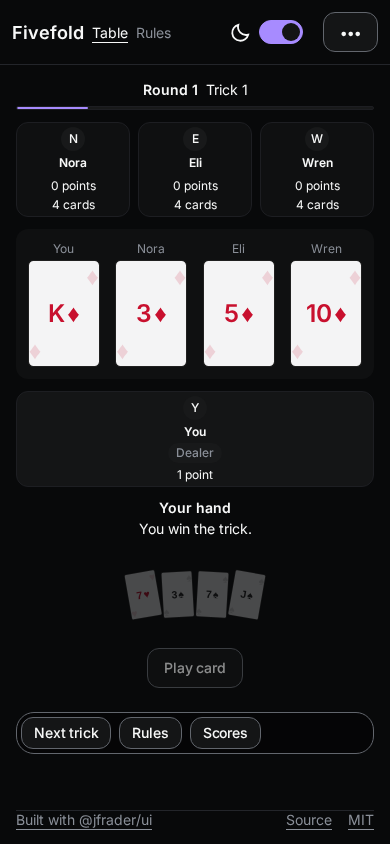
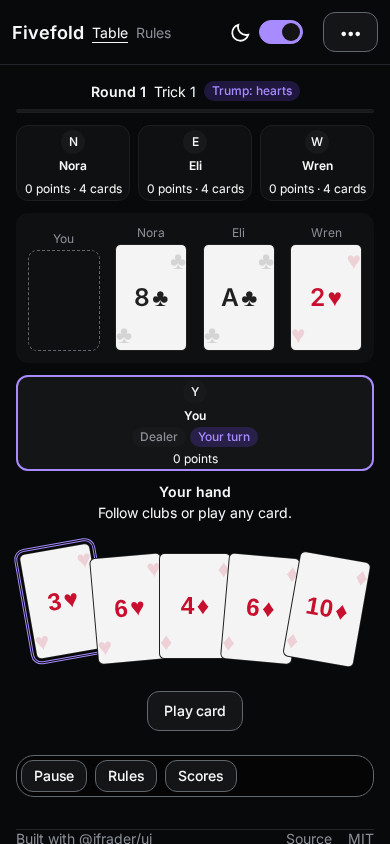
Refresh screenshots and docs for the new table
README component list and FINDINGS now describe the trick tray instead of GameTable.Play with GameCardStack; screenshots show the hand dock and felt.

diff --git a/README.md b/README.md
@@ -59,8 +59,8 @@ props. App-owned styles use `styled` from `@jfrader/ui` with theme callbacks —
 
 ## Built with `@jfrader/ui`
 
-Game: `GameTable` (Seat, Play, Center, Header, Dock, Footer, Floating), `GameSeat`, `GameHand`,
-`GameCard`, `GameCardStack`, `GameActions`, `GameScore`, `GameRounds`, `GameResult`, `GameMarks`,
+Game: `GameTable` (Seat, Center, Floating), `GameSeat`, `GameHand`,
+`GameCard`, `GameActions`, `GameScore`, `GameRounds`, `GameResult`, `GameMarks`,
 `FlipGameCard`, `DeckProvider`.
 
 Overlays and feedback: `Dialog`, `Drawer`, `Toast`, `Alert`, `Tabs`, `Menu`, `Tooltip`, `Popover`,
@@ -87,8 +87,9 @@ integration.
 ## Testing
 
 `pnpm test` runs the pure engine and storage suites (38 tests). `pnpm test:e2e` drives the real UI in
-Chromium: a completed trick, a full five-round match, the three target viewports and axe audits of
-the table, rules and settings in both palettes. The build must pass `pnpm typecheck` and
+Chromium: a completed trick, a full five-round match, four viewports (1440×900, 1280×720, 768×1024,
+390×844) with the hand kept in view, and axe audits of the table (desktop and phone), rules and
+settings in both palettes. The build must pass `pnpm typecheck` and
 `pnpm build`; screenshots live in `docs/` and are visually reviewed.
 
 ## License

diff --git a/FINDINGS.md b/FINDINGS.md
@@ -35,8 +35,10 @@ here; none of these is an upstream bug report yet.
   `seatPlacement="edge"` and a compact board under 600px. The library was not patched to force this.
 - The `GameTable` `insufficient-space` observer was removed because switching the whole layout on
   and off oscillated. The compact board is a stable branch.
-- The played cards use `cardWidth={theme.size.gameCardSm}`; the `GameTable` play region footprint
-  stays ~107px, which is the library feature above, not a consumer CSS bug.
+- The four plays render in one `TrickTray` inside `GameTable.Center` (and in the phone board)
+  instead of `GameTable.Play` + `GameCardStack`: the play region footprint stays ~107px and the
+  regions collide, which is the library feature above, not a consumer CSS bug. Revisit when the
+  compact four-play layout lands.
 - The result dialog's "Review scores" closes the dialog; it does not start a new game.
 - A redundant `aria-label` on the hand-card slot caused axe `label-content-name-mismatch`; the
   library's `GameCard` label already names the button, so the override was removed.
